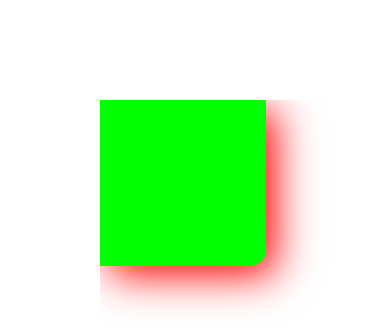
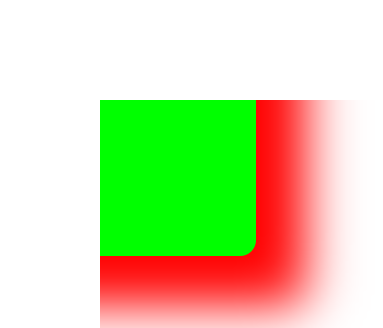
Bug 1514383 - Only clip the outermost Picture in a stacking context, since we sometimes need the inner pixels for filter rendering. r=gw
Differential Revision: https://phabricator.services.mozilla.com/D17595

Changed region(s): [[0.2585, 0.3049, 0.8903, 1.0]]

diff --git a/gfx/wr/webrender/src/display_list_flattener.rs b/gfx/wr/webrender/src/display_list_flattener.rs
@@ -1380,7 +1380,7 @@ impl<'a> DisplayListFlattener<'a> {
             leaf_pic_index,
             leaf_composite_mode.into(),
             stacking_context.is_backface_visible,
-            stacking_context.clip_chain_id,
+            ClipChainId::NONE,
             stacking_context.spatial_node_index,
             &mut self.interners,
         );
@@ -1388,6 +1388,8 @@ impl<'a> DisplayListFlattener<'a> {
         if cur_instance.is_chased() {
             println!("\tis a leaf primitive for a stacking context");
         }
+
+        let mut clip_chain = Some(stacking_context.clip_chain_id);
 
         // If establishing a 3d context, the `cur_instance` represents
         // a picture with all the *trailing* immediate children elements.
@@ -1420,11 +1422,21 @@ impl<'a> DisplayListFlattener<'a> {
                 ))
             );
 
+            // If this is going to be the last picture for the stacking context,
+            // then put the clip onto the leaf picture, since this one uses
+            // PictureCompositeKey::Identity and won't have a surface to be
+            // clipped.
+            if stacking_context.composite_ops.filters.is_empty() &&
+               stacking_context.composite_ops.mix_blend_mode.is_none() {
+                cur_instance.clip_chain_id = clip_chain.take().unwrap();
+            }
+
+
             cur_instance = create_prim_instance(
                 current_pic_index,
                 PictureCompositeKey::Identity,
                 stacking_context.is_backface_visible,
-                stacking_context.clip_chain_id,
+                ClipChainId::NONE,
                 stacking_context.spatial_node_index,
                 &mut self.interners,
             );
@@ -1461,7 +1473,7 @@ impl<'a> DisplayListFlattener<'a> {
                 current_pic_index,
                 composite_mode.into(),
                 stacking_context.is_backface_visible,
-                stacking_context.clip_chain_id,
+                ClipChainId::NONE,
                 stacking_context.spatial_node_index,
                 &mut self.interners,
             );
@@ -1505,7 +1517,7 @@ impl<'a> DisplayListFlattener<'a> {
                 blend_pic_index,
                 composite_mode.into(),
                 stacking_context.is_backface_visible,
-                stacking_context.clip_chain_id,
+                ClipChainId::NONE,
                 stacking_context.spatial_node_index,
                 &mut self.interners,
             );
@@ -1514,6 +1526,10 @@ impl<'a> DisplayListFlattener<'a> {
                 println!("\tis a mix-blend picture for a stacking context with {:?}", mix_blend_mode);
             }
         }
+
+        // Set the stacking context clip on the outermost picture in the chain,
+        // unless we already set it on the leaf picture.
+        cur_instance.clip_chain_id = clip_chain.unwrap_or(ClipChainId::NONE);
 
         let has_mix_blend_on_secondary_framebuffer =
             stacking_context.composite_ops.mix_blend_mode.is_some() &&
